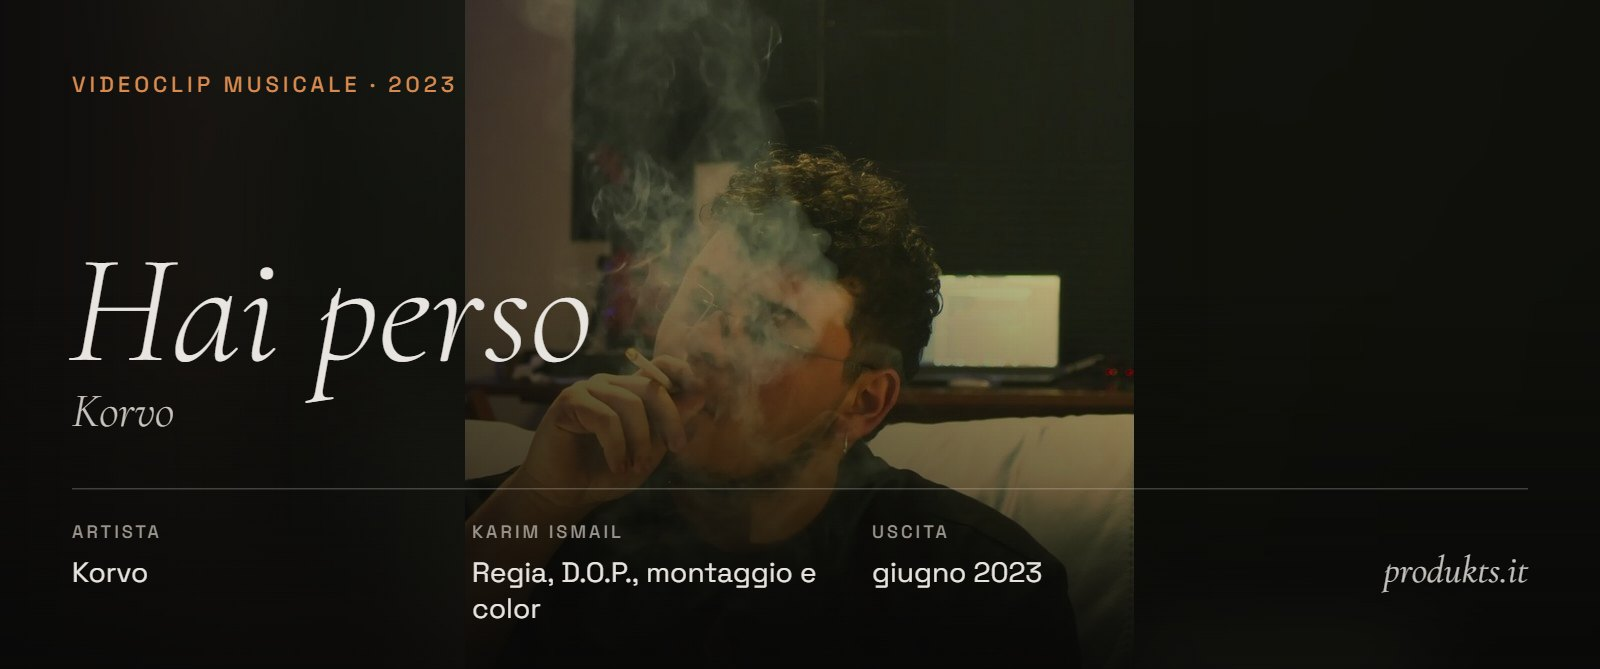
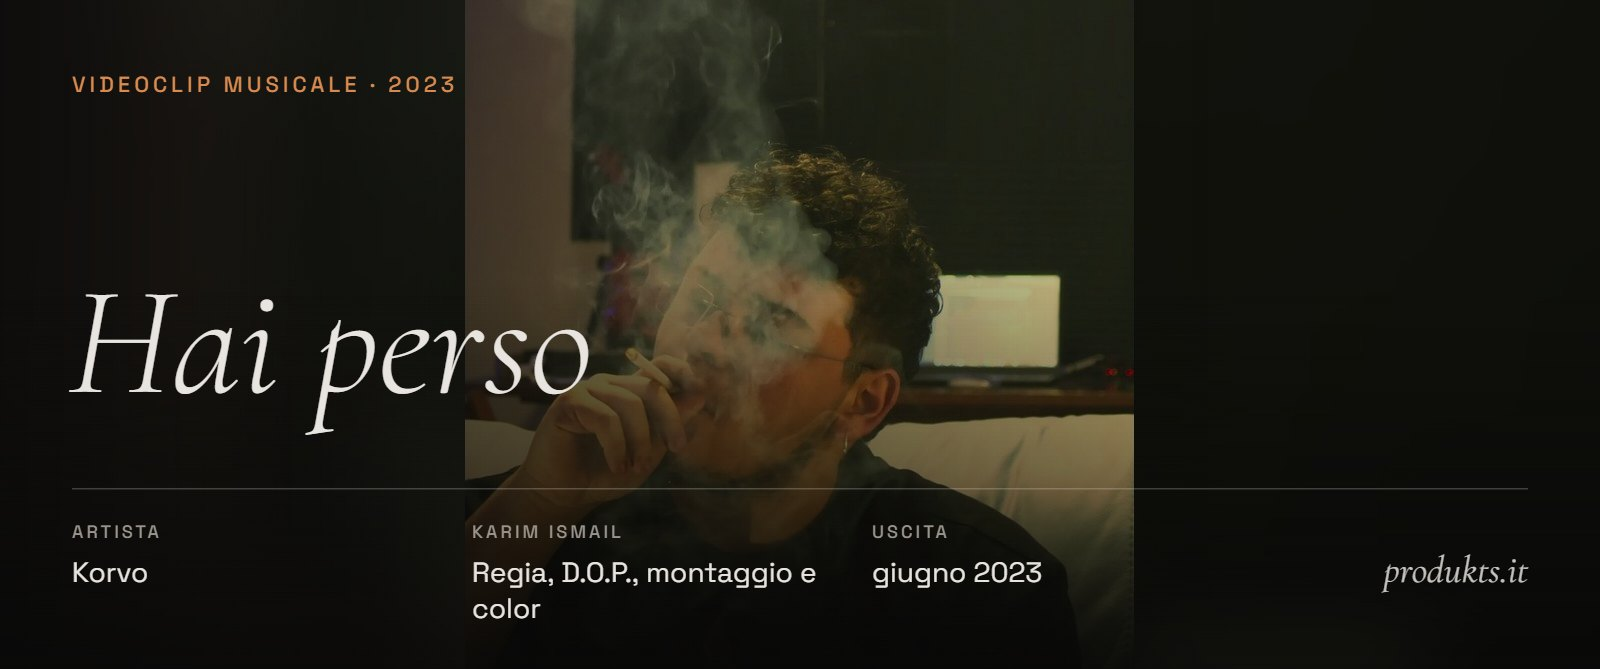
Hai perso: titolo senza il sottotitolo Korvo (pagina e copertina)

Changed region(s): [[0.0312, 0.3886, 0.375, 0.6577], [0.1562, 0.3886, 0.1875, 0.4185]]

diff --git a/korvo.html b/korvo.html
@@ -4,14 +4,14 @@
 <meta charset="utf-8">
 <meta name="viewport" content="width=device-width, initial-scale=1, viewport-fit=cover">
 <meta name="theme-color" content="#080808">
-<title>Hai perso — Korvo — produkts.it</title>
+<title>Hai perso — produkts.it</title>
 <!-- seo -->
 <meta name="description" content="Videoclip di «Hai perso» per Korvo, curato dall&#x27;idea alla consegna: regia, riprese, montaggio e color.">
 <link rel="canonical" href="https://produkts.it/korvo">
 <meta property="og:type" content="website">
 <meta property="og:site_name" content="produkts.it">
 <meta property="og:locale" content="it_IT">
-<meta property="og:title" content="Hai perso — Korvo — produkts.it">
+<meta property="og:title" content="Hai perso — produkts.it">
 <meta property="og:description" content="Videoclip di «Hai perso» per Korvo, curato dall&#x27;idea alla consegna: regia, riprese, montaggio e color.">
 <meta property="og:url" content="https://produkts.it/korvo">
 <meta property="og:image" content="https://produkts.it/img/lavori/korvo.jpg">
@@ -42,7 +42,6 @@ var show=n==='reload'||(n!=='back_forward'&&!same);if(show&&!matchMedia('(prefer
 <div style="display: flex; flex-direction: column; gap: 20px; min-width: 0">
 <span class="fade" style="font-size: 12px; letter-spacing: 0.16em; text-transform: uppercase; color: #B46428">Videoclip musicale · 2023</span>
 <h1 style="margin: 0; font-family: 'Cormorant Garamond', serif; font-style: italic; font-weight: 300; font-size: clamp(56px, 9vw, 144px); line-height: 0.9; overflow: hidden; padding-bottom: 0.2em; margin-bottom: -0.12em; overflow-wrap: anywhere"><span class="rise" style="display: block">Hai perso</span></h1>
-<p class="fade d2" style="margin: 0; font-family: 'Cormorant Garamond', serif; font-style: italic; font-weight: 300; font-size: clamp(24px, 3vw, 36px); line-height: 1.2; color: #C9C4BD">Korvo</p>
 </div>
 <a href="https://vimeo.com/888211568" target="_blank" rel="noopener" class="pill fade d3" style="height: 52px; padding: 0 26px 0 20px; border-radius: 26px; border: 1px solid rgba(232,228,223,0.6); color: #E8E4DF; display: inline-flex; align-items: center; gap: 12px; font-size: 13px; letter-spacing: 0.14em; text-transform: uppercase; white-space: nowrap">
 <svg width="16" height="16" viewBox="0 0 24 24" fill="currentColor" aria-hidden="true"><path d="M8 5l11 7-11 7V5z"></path></svg>Guarda su Vimeo <span aria-hidden="true">↗</span></a>

diff --git a/_design/bozza/lavori.py b/_design/bozza/lavori.py
@@ -74,7 +74,7 @@ WORKS = [
          meta=[('Artista', 'Bartek Dabrowski'), ('Uscita', '29 marzo 2024 · YouTube')],
          crew=[('Artista', 'Bartek Dabrowski'), ('Direzione della fotografia', KI), ('Riprese', KI), ('Montaggio', KI),
                ('Color', KI), ('VFX', KI)]),
-    dict(slug='korvo', t='Hai perso', sub='Korvo', year='2023', date='giugno 2023',
+    dict(slug='korvo', t='Hai perso', year='2023', date='giugno 2023',
          vimeo='888211568', img='img/lavori/korvo.jpg', cats=['Videoclip'],
          kicker='Videoclip musicale · 2023',
          line="Videoclip di «Hai perso» per Korvo, curato dall'idea alla consegna: regia, riprese, montaggio e color.",
